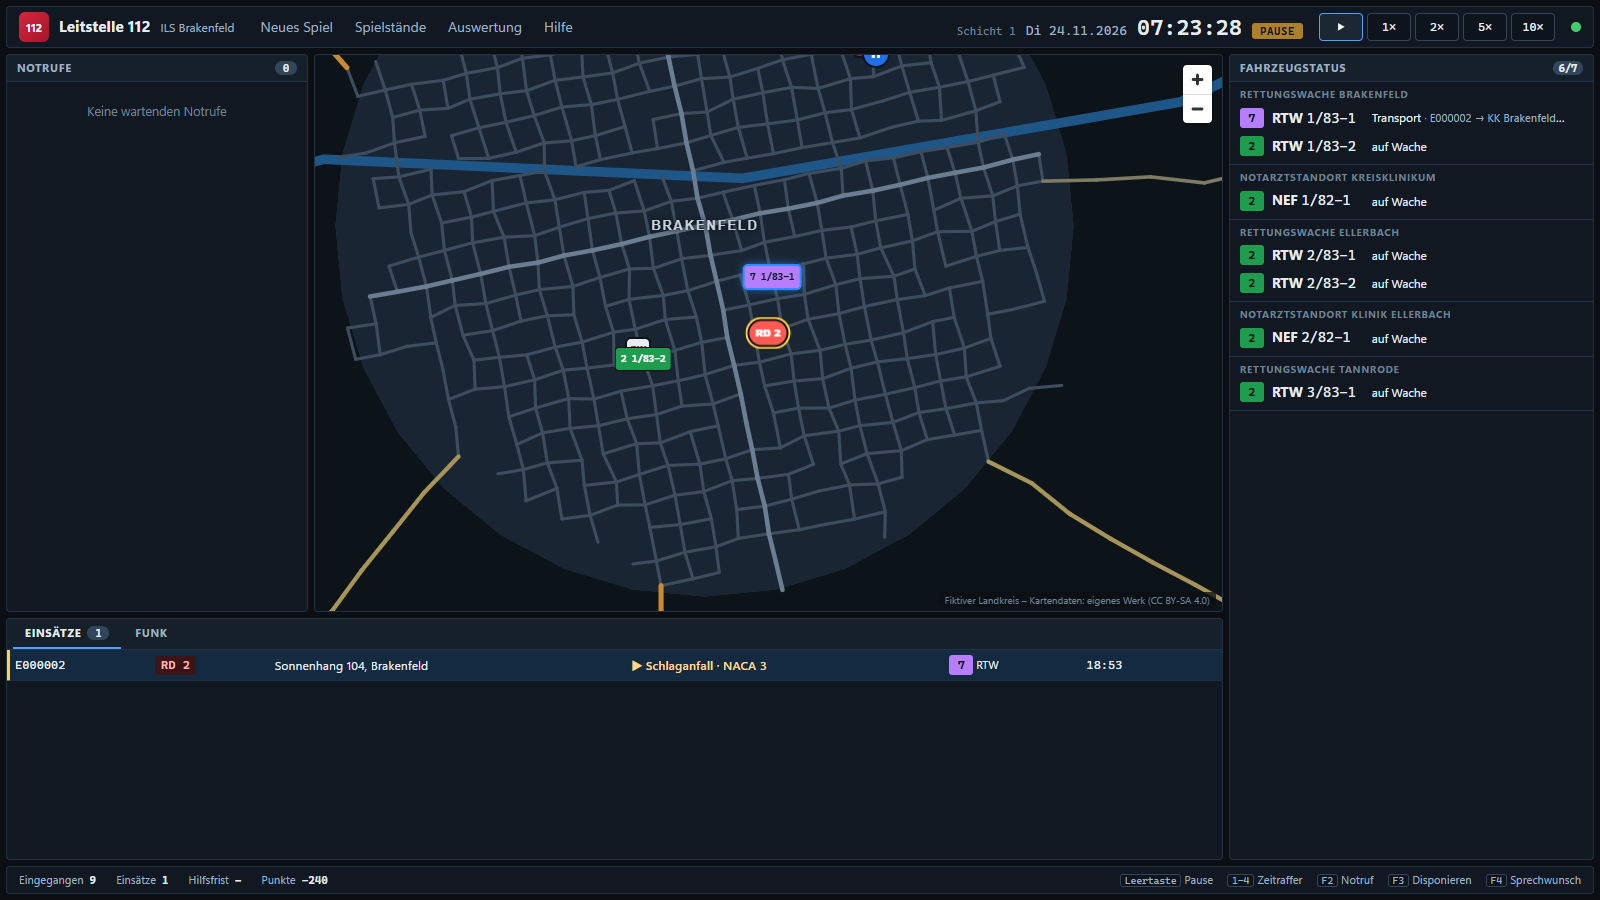
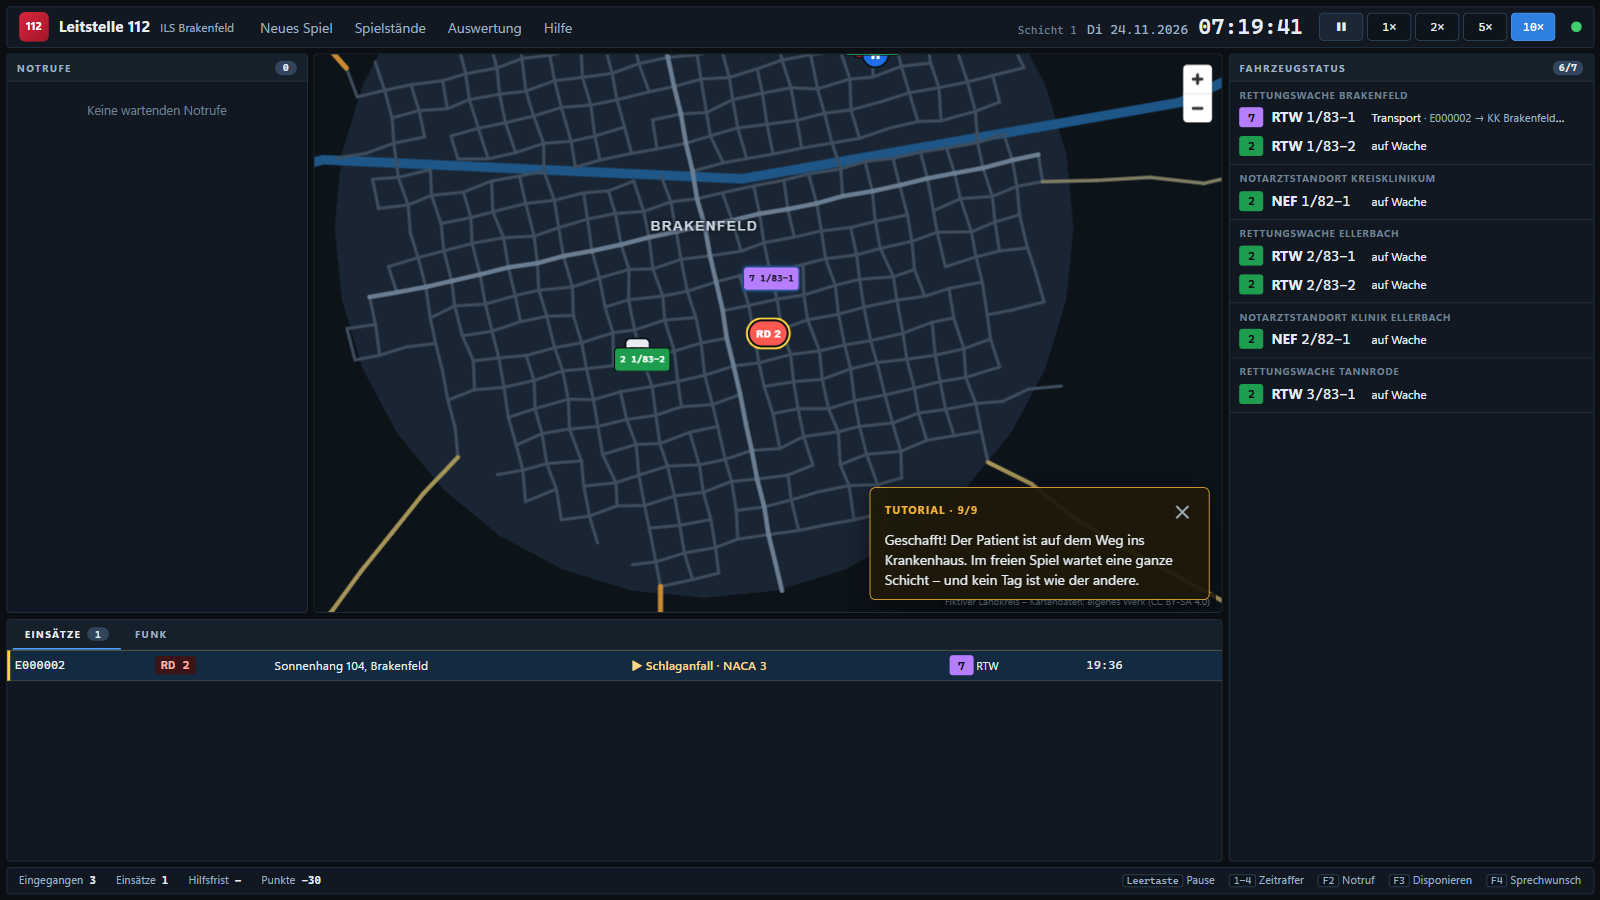
test(e2e): Einsatz mit vollständiger Abfrage im Tutorial durchspielen

diff --git a/e2e/app.spec.ts b/e2e/app.spec.ts
@@ -58,11 +58,13 @@ test.afterAll(async () => {
   rmSync(userData, { recursive: true, force: true });
 });
 
-test('Startbildschirm und freies Spiel', async () => {
+test('Startbildschirm und Tutorial', async () => {
   await expect(page).toHaveTitle('Leitstelle 112');
   await page.waitForTimeout(800);
   await shot('startbildschirm');
-  await page.getByTestId('start-free').click();
+  // Das Tutorial garantiert als ersten Anruf einen echten Notfall.
+  await page.getByTestId('start-tutorial').click();
+  await expect(page.getByTestId('tutorial-coach')).toBeVisible();
   await expect(page.getByTestId('start-screen')).toBeHidden();
   await expect(page.getByTestId('vehicle-row')).toHaveCount(7);
 });
@@ -89,7 +91,13 @@ test('kompletter Einsatz: Notruf → Disposition → Anfahrt → Zielklinik', as
   await page.keyboard.press('F2');
   const mask = page.getByTestId('call-mask');
   await expect(mask).toBeVisible();
-  await expect(page.getByTestId('transcript')).toContainText('Wo genau');
+  // Strukturierte Abfrage: Fragen stellen, Antworten kommen nach einigen Sekunden.
+  await expect(page.getByTestId('take-address')).toBeDisabled();
+  await page.getByTestId('ask-all').click();
+  await expect(page.getByTestId('transcript')).toContainText('Atmet die Person normal?');
+  await expect(page.getByTestId('take-address')).toBeEnabled({ timeout: 30_000 });
+  // Alle Antworten abwarten – der Anrufer antwortet nacheinander.
+  await expect(page.getByTestId('typing')).toHaveCount(0, { timeout: 90_000 });
   await page.getByTestId('take-address').click();
   const results = page.getByTestId('address-results').locator('button');
   await expect(results.first()).toBeVisible();
